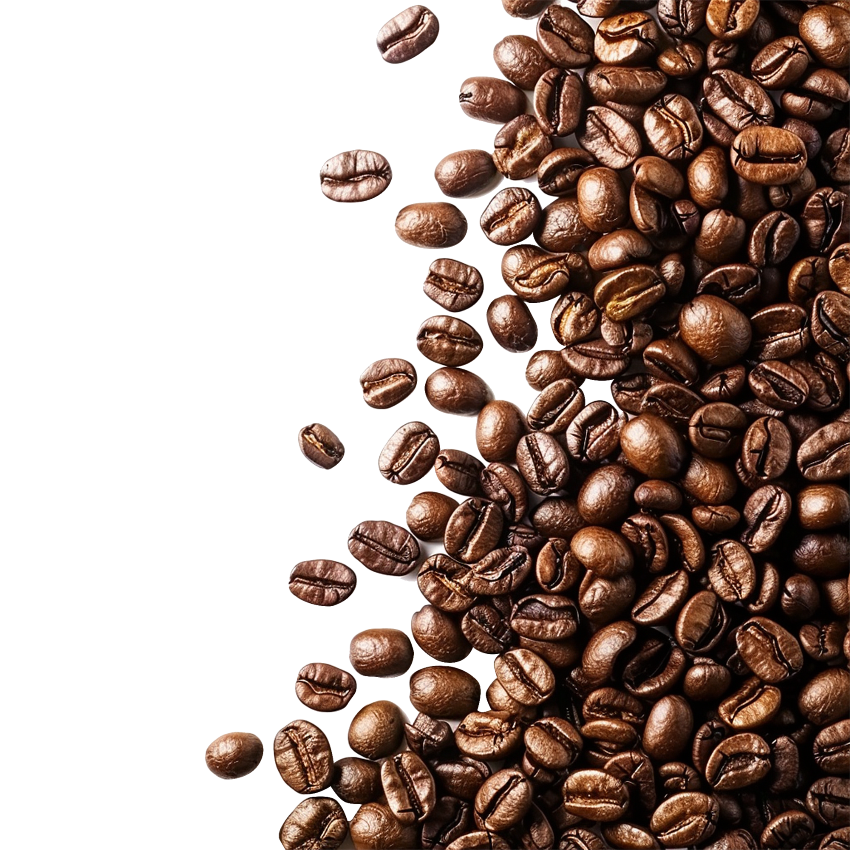
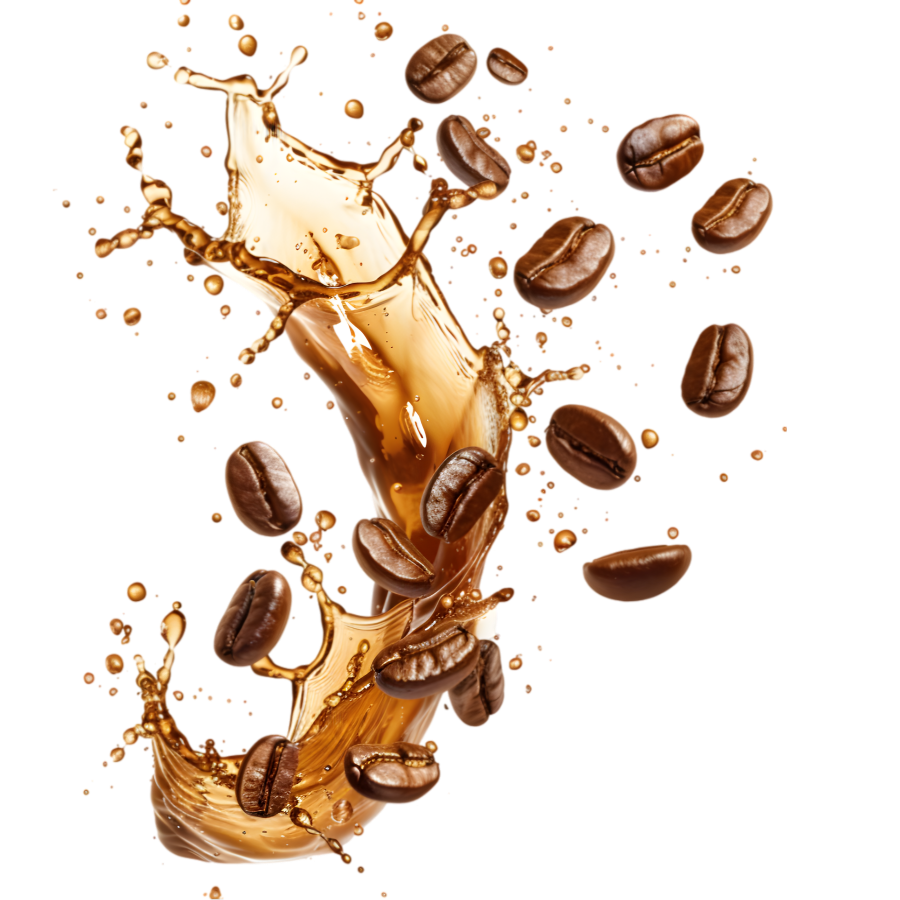
Design changes

diff --git a/src/Pages/Home/Sections/OtherSection.css b/src/Pages/Home/Sections/OtherSection.css
@@ -13,14 +13,24 @@
 	background: linear-gradient(90deg, rgba(255, 255, 255, 1) 0%, rgba(194, 194, 194, 1) 100%);
 }
 
-.coffee-beans2-bg {
+.other-coffee-beans-bg {
 	position: absolute;
 	top: -5px;
-	right: 0;
+	right: -150px;
 	width: 380px;
-	height: calc(100% + 10px);
+	height: 800px;
 	background-image: url("../../../Assets/Images/coffee-beans2.png");
-	background-size: cover;
+	background-size: contain;
+}
+
+.other-coffee-beans2-bg {
+	position: absolute;
+	bottom: -150px;
+	left: -240px;
+	width: 380px;
+	height: 600px;
+	background-image: url("../../../Assets/Images/coffee-beans2.png");
+	background-size: contain;
 }
 
 .cadies2-bg {
@@ -43,6 +53,17 @@
 	background-size: cover;
 }
 
+.fruits2-bg {
+	position: absolute;
+	bottom: -300px;
+	left: -20px;
+	width: 320px;
+	height: 700px;
+	background-image: url("../../../Assets/Images/fruits.png");
+	background-size: cover;
+	background-position: right;
+}
+
 .vegetables-bg {
 	position: absolute;
 	top: -180px;
@@ -51,6 +72,17 @@
 	height: calc(100% + 60px);
 	background-image: url("../../../Assets/Images/vegetables.png");
 	background-size: cover;
+}
+
+.vegetables2-bg {
+	position: absolute;
+	bottom: -280px;
+	left: 0;
+	width: 320px;
+	height: 600px;
+	background-image: url("../../../Assets/Images/vegetables.png");
+	background-size: cover;
+	background-position: right;
 }
 
 .lime-slices-bg {

diff --git a/src/Pages/Home/Sections/OtherSection.tsx b/src/Pages/Home/Sections/OtherSection.tsx
@@ -22,7 +22,8 @@ function OurCompetitiveAdvantagesCard({ isMobile }: { isMobile: boolean }) {
 
 	return (
 		<Card className="other-card" w="100%" h="100%" pos="relative" shadow="xs" radius="xl" pt={0}>
-			<div className="coffee-beans2-bg"></div>
+			<div className="other-coffee-beans-bg"></div>
+			<div className="other-coffee-beans2-bg"></div>
 			<Box className="card-header">
 				<Text fz={22}>
 					Our Competitive <br /> <b>Advantage</b>
@@ -108,6 +109,7 @@ function ExportAndDistributionCard({ isMobile }: { isMobile: boolean }) {
 	return (
 		<Card className="other-card" w="100%" h="100%" pos="relative" shadow="xs" radius="xl" pt={0}>
 			<div className="fruits-bg"></div>
+			<div className="fruits2-bg"></div>
 			<Box className="card-header">
 				<Text fz={22}>
 					Export & <br /> <b>Distribution</b>
@@ -143,6 +145,7 @@ function QualityAndCertificationsCard({ isMobile }: { isMobile: boolean }) {
 	return (
 		<Card className="other-card" w="100%" h="100%" pos="relative" shadow="xs" radius="xl" pt={0}>
 			<div className="vegetables-bg"></div>
+			<div className="vegetables2-bg"></div>
 			<Box className="card-header">
 				<Text fz={22}>
 					Quality & <br /> <b>Certifications</b>
